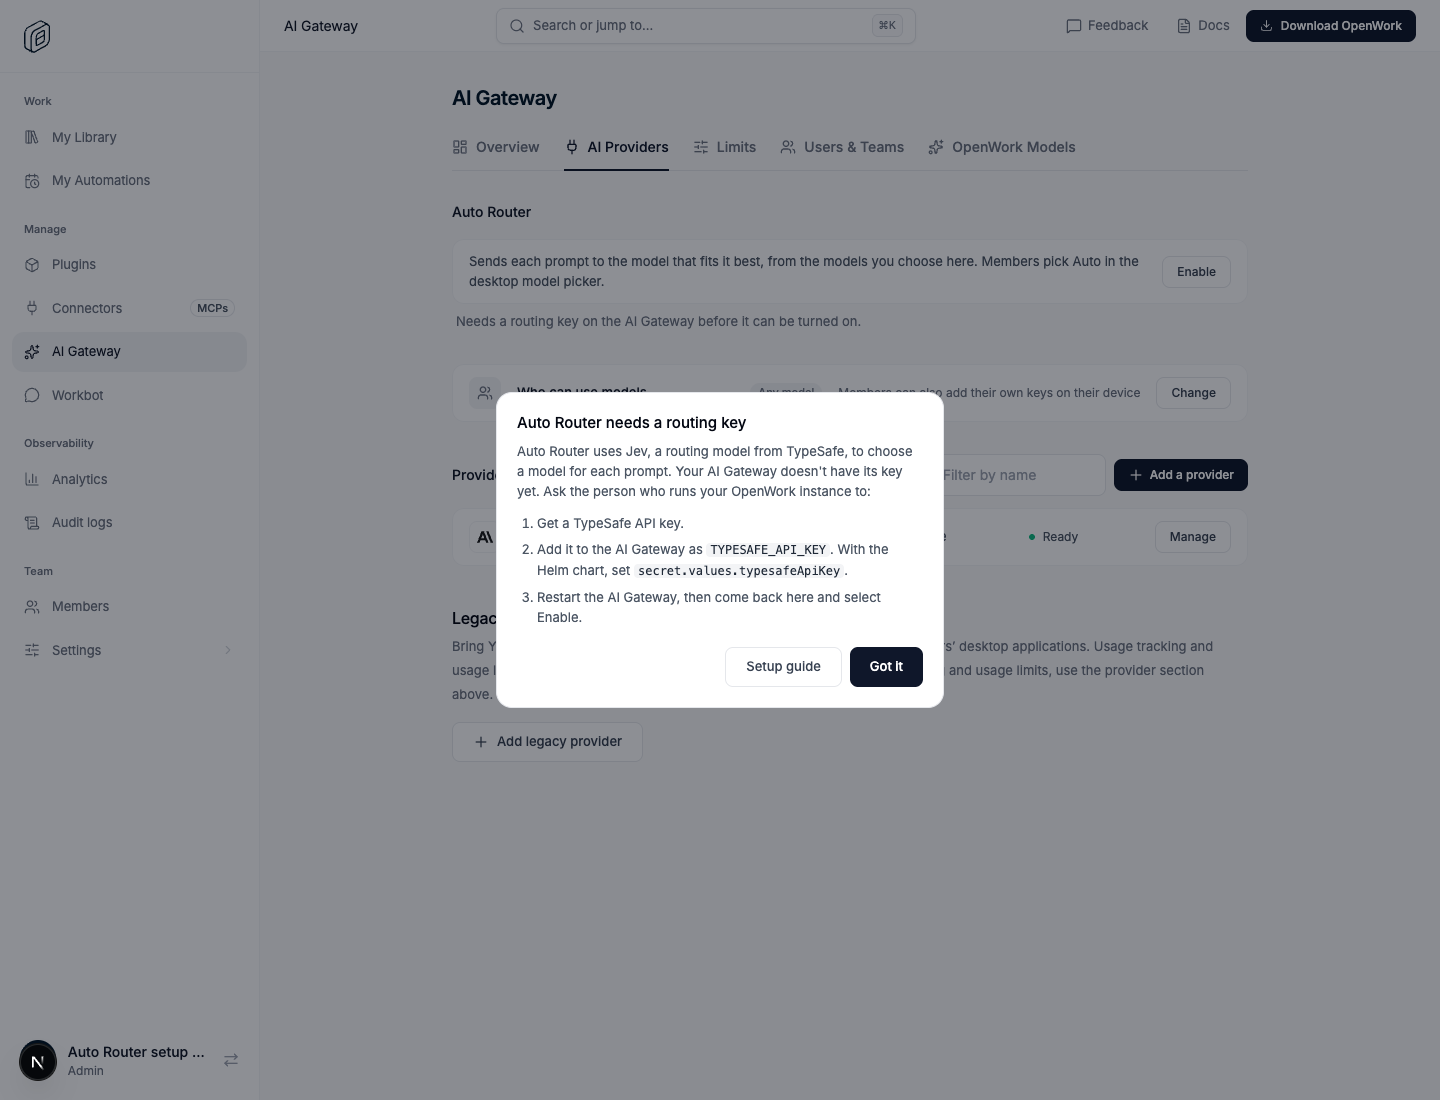
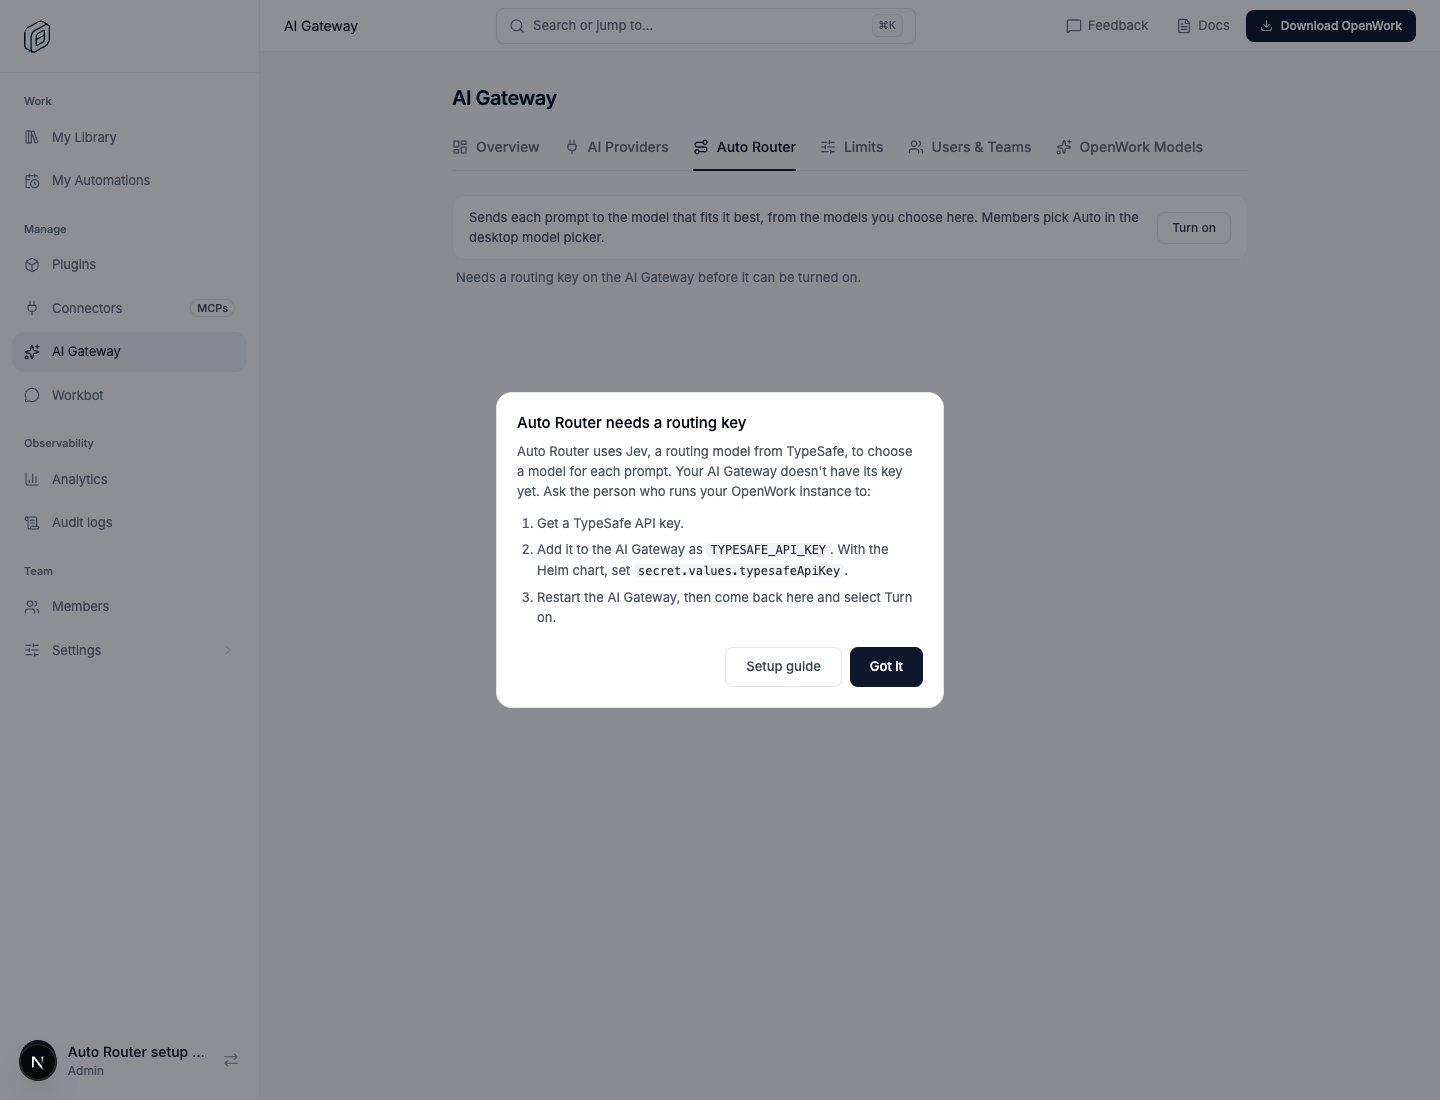
docs(auto-router): update docs, screenshots and the setup proof for the default model and Auto Router tab

diff --git a/evals/worlds/auto-router.ts b/evals/worlds/auto-router.ts
@@ -54,7 +54,7 @@ export async function autoRouterWorld(seed: Seed) {
 /**
  * Auto Router when the AI Gateway has no TypeSafe key: the same real Den and
  * gateway with the feature on, but no routing key, and the owner on
- * AI Gateway › AI Providers.
+ * AI Gateway › Auto Router.
  */
 export async function autoRouterMissingKeyWorld(seed: Seed) {
   const stack = new AsyncDisposableStack();
@@ -65,15 +65,15 @@ export async function autoRouterMissingKeyWorld(seed: Seed) {
     const den = stack.use(await seed.den({ env, org: { name: "Auto Router setup proof", admin: { name: "Router owner" } } }));
     if (!den.database) throw new Error("The Auto Router world needs its disposable local database.");
     await startAcmeGateway(stack, den.database.url, { baseUrl: gateway.baseUrl, env });
-    await seedAcmeGateway(den.admin, upstream);
+    const provider = await seedAcmeGateway(den.admin, upstream);
     await enableOrganizationCapabilities(seed, den.admin, { autoRouter: true });
-    const web = await seed.web({ den, signedInAs: den.admin, startPath: "/dashboard/ai-gateway?tab=ai-providers", headless: true, viewport: { width: 1440, height: 1100 } });
+    const web = await seed.web({ den, signedInAs: den.admin, startPath: "/dashboard/ai-gateway?tab=auto-router", headless: true, viewport: { width: 1440, height: 1100 } });
     return {
       den,
       web,
       /** Asks Den to turn Auto on through the API, as a script would; returns the HTTP status. */
       async tryEnable() {
-        const result = await seed.api(den.admin, "/v1/org/auto-router", { method: "PUT", body: JSON.stringify({ enabled: true, routes: [] }) });
+        const result = await seed.api(den.admin, "/v1/org/auto-router", { method: "PUT", body: JSON.stringify({ enabled: true, routes: [{ providerId: provider.providerId, modelId: ACME_MODEL, thinkingLevel: "default" }] }) });
         return result.response.status;
       },
       async [Symbol.asyncDispose]() { await stack.disposeAsync(); },

diff --git a/evals/proofs/auto-router.proof.test.ts b/evals/proofs/auto-router.proof.test.ts
@@ -191,19 +191,19 @@ desktopTest("a member picks Auto and sees which model answered their question", 
   });
 });
 
-missingKeyTest("without the gateway's routing key, Enable explains how to add it instead of turning Auto on", async ({ world, user, probe, step, evidence }) => {
-  await step("before: Enable is muted and says why", async () => {
+missingKeyTest("without the gateway's routing key, Turn on explains how to add it instead of turning Auto on", async ({ world, user, probe, step, evidence }) => {
+  await step("before: Turn on is muted and says why", async () => {
     await user.see({ testId: "auto-router-section" }, { timeoutMs: 60_000 });
     await user.see({ testId: "auto-router-missing-key" }, { timeoutMs: 30_000 });
     const settings = await probe.api(world.den.admin, "/v1/org/auto-router");
     expect(isRecord(settings.body) && settings.body.routing).toBe("missing_key");
     const enable = await probe.dom('[data-testid="auto-router-enable"][data-blocked="missing-key"]');
     expect(enable.elements).toHaveLength(1);
-    evidence.recordAssertionEvidence("Den knows the gateway has no routing key", `routing=${String(isRecord(settings.body) ? settings.body.routing : null)}; Enable blocked=${enable.elements.length === 1}`, enable.elements.length === 1);
+    evidence.recordAssertionEvidence("Den knows the gateway has no routing key", `routing=${String(isRecord(settings.body) ? settings.body.routing : null)}; Turn on blocked=${enable.elements.length === 1}`, enable.elements.length === 1);
     await user.screenshot();
   });
 
-  await step("after: clicking Enable opens the setup dialog and nothing is enabled", async () => {
+  await step("after: clicking Turn on opens the setup dialog and nothing is enabled", async () => {
     await user.click({ testId: "auto-router-enable" });
     await user.see({ testId: "auto-router-setup-dialog" }, { timeoutMs: 10_000 });
     await user.see({ text: "Auto Router needs a routing key" });

diff --git a/ee/apps/den-api/src/routes/org/auto-router.ts b/ee/apps/den-api/src/routes/org/auto-router.ts
@@ -23,7 +23,7 @@ const notConfiguredSchema = z
   .object({ error: z.literal("auto_router_not_configured"), message: z.string() })
   .meta({ ref: "AutoRouterNotConfiguredError" })
 
-export const AUTO_ROUTER_NOT_CONFIGURED_MESSAGE = "The AI Gateway is missing its routing key. Ask the person who runs your OpenWork instance to add a TypeSafe API key to the AI Gateway, then enable Auto Router."
+export const AUTO_ROUTER_NOT_CONFIGURED_MESSAGE = "The AI Gateway is missing its routing key. Ask the person who runs your OpenWork instance to add a TypeSafe API key to the AI Gateway, then turn on the Auto Router."
 
 const writeProblemSchema = z
   .object({ error: z.enum(["unknown_model", "unsupported_thinking_level"]), route: z.number().int(), message: z.string() })

diff --git a/ee/apps/den-web/app/(den)/dashboard/_components/auto-router-setup-dialog.tsx b/ee/apps/den-web/app/(den)/dashboard/_components/auto-router-setup-dialog.tsx
@@ -33,7 +33,7 @@ export function AutoRouterSetupDialog({ open, onOpenChange }: { open: boolean; o
                 Add it to the AI Gateway as <code className="rounded bg-gray-100 px-1 text-[12px] text-gray-800">TYPESAFE_API_KEY</code>.
                 With the Helm chart, set <code className="rounded bg-gray-100 px-1 text-[12px] text-gray-800">secret.values.typesafeApiKey</code>.
               </li>
-              <li>Restart the AI Gateway, then come back here and select Enable.</li>
+              <li>Restart the AI Gateway, then come back here and select Turn on.</li>
             </ol>
           </div>
           <div className="mt-5 flex justify-end gap-2">

diff --git a/docs/features/auto-router/README.md b/docs/features/auto-router/README.md
@@ -64,7 +64,8 @@ the reply (for example "Claude Haiku 5.5 · High").
    its own thinking level. Jev never sees provider or model ids. Requests that
    continue the turn (tool results) reuse the turn's choice for an hour, so the
    model, its thinking and its prompt cache stay consistent.
-4. If Jev is not configured, fails, times out (4s) or answers nothing usable,
+4. If Jev fails, times out (4s) or answers nothing usable (without the
+   TypeSafe key Auto is off altogether, see below),
    the default model (the first route, or the first one the member can use
    when their access excludes it) is used at its thinking level.
 5. The request is rewritten under the member's own `gwm_…` alias for that
@@ -156,7 +157,9 @@ member's Gateway key is answered by that model (with real Jev when
 `TYPESAFE_API_KEY` is set). A second test signs the app (headless Chrome, v2
 engine) in to the same kind of Den and gateway: the member picks Auto (first in
 the picker), asks a question, gets the upstream's reply, and sees which model
-answered it, before and after reloading the chat. Run them with
+answered it, before and after reloading the chat. A third test runs the gateway
+without the TypeSafe key: **Turn on** is muted, opens the setup dialog, and Den
+refuses turning on and the desktop connect. Run them with
 `pnpm evals:e2e auto-router --local`.
 
 ## Operating it
@@ -178,7 +181,7 @@ Only the gateway holds the key. Den asks it through `GET /auto-router/status`
 (a boolean, cached for a minute) and reports `routing: "ready" | "missing_key" |
 "unknown"` on `GET /v1/org/auto-router`. While the key is missing:
 
-- **Enable** is muted with "Needs a routing key on the AI Gateway", and clicking
+- **Turn on** is muted with "Needs a routing key on the AI Gateway", and clicking
   it opens a dialog telling the admin to ask whoever runs the instance to add
   `TYPESAFE_API_KEY` (Helm: `secret.values.typesafeApiKey`) and restart the gateway.
 - An already enabled router shows "Auto is paused" with the same steps, and
@@ -189,7 +192,7 @@ Only the gateway holds the key. Den asks it through `GET /auto-router/status`
 
 `unknown` (the gateway could not be reached) does not block anything.
 
-![Enable without the key](auto-router-missing-key.png)
+![Turn on without the key](auto-router-missing-key.png)
 
 ![The setup dialog](auto-router-setup-dialog.png)
 
